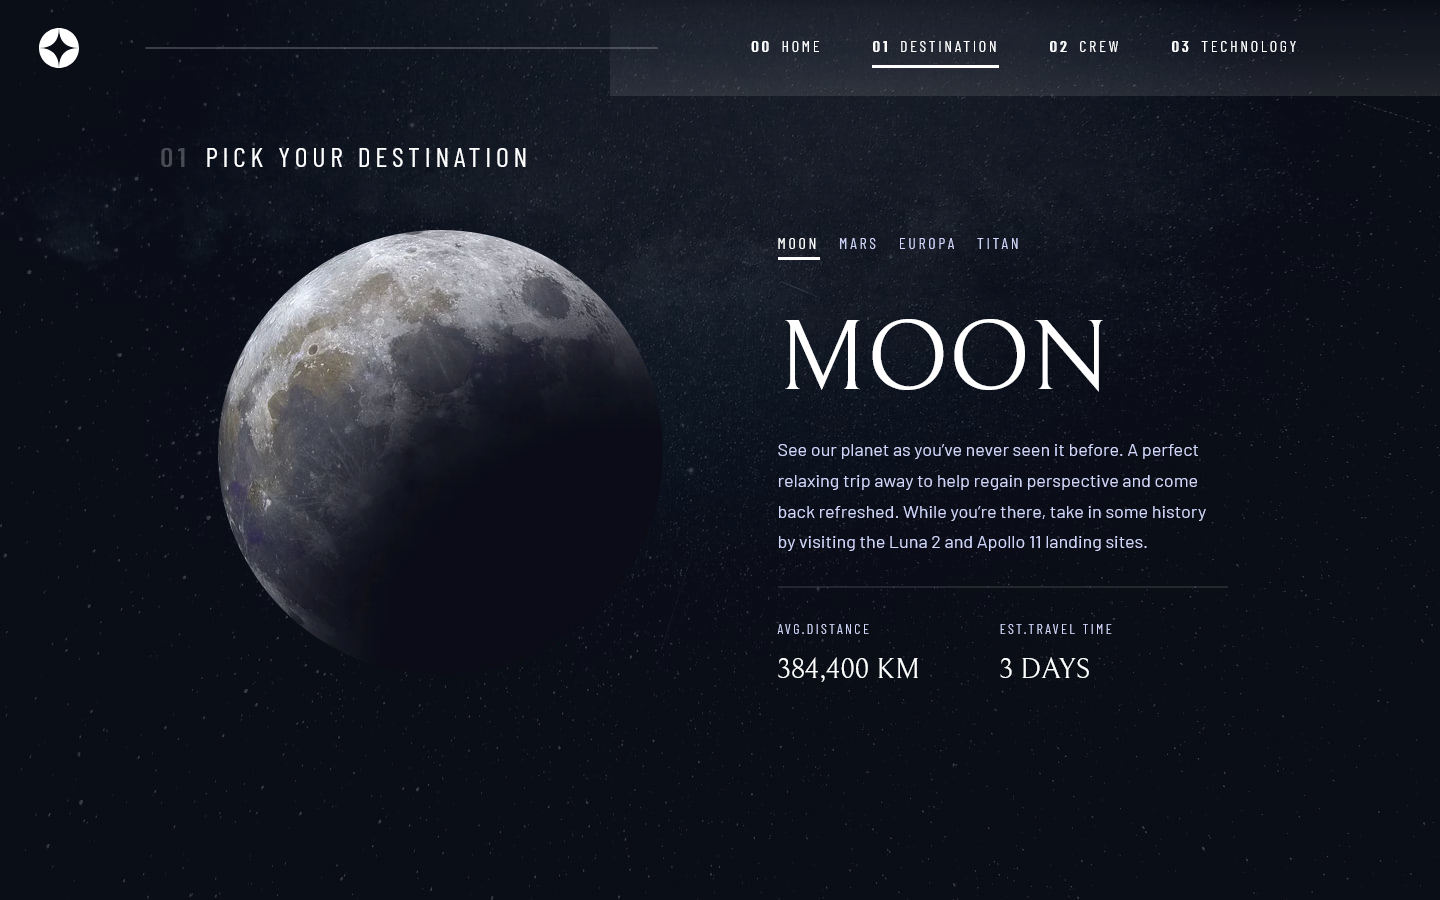
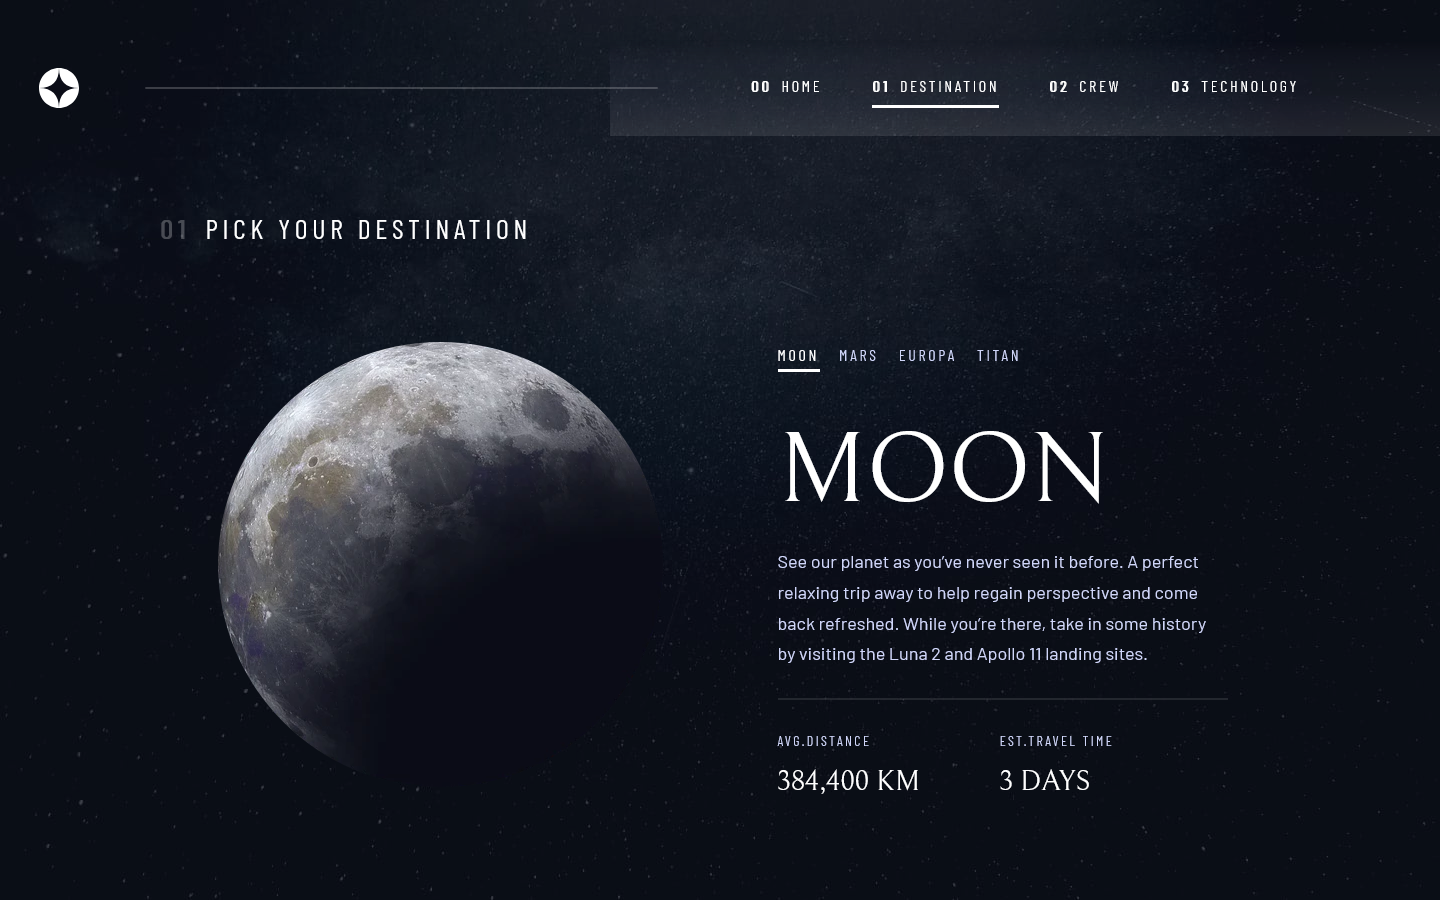
code refactor

diff --git a/src/pages/home.tsx b/src/pages/home.tsx
@@ -8,10 +8,10 @@ export const Home = () => {
       <div className="fixed inset-0 -z-10 bg-no-repeat bg-[url(/public/assets/home/background-home-mobile.jpg)] md:bg-[url(/public/assets/home/background-home-tablet.jpg)] ws:bg-[url(/public/assets/home/background-home-desktop.jpg)]" />
 
       <section className="pt-40 flex flex-col items-center gap-[3.2rem] md:pt-80 ws:pt-[37.7rem] ws:flex-row ws:justify-center ws:gap-[38rem]">
-        <div className="w-[32.7rem] md:w-[45rem] space-y-[1.6rem]">
-          <h5 className="h5 text-light_blue text-center">so, you want to travel to</h5>
-          <h1 className="h1 text-center">space</h1>
-          <p className="body-text text-center md:px-4 ws:text-left">
+        <div className="w-[32.7rem] text-center md:w-[45rem] space-y-[1.6rem] ws:text-left">
+          <h5 className="h5 text-light_blue">so, you want to travel to</h5>
+          <h1 className="h1">space</h1>
+          <p className="body-text md:px-4">
             Let's face it; if you want to go to space, you might as well genuinely go to
             outer space and not hover kind of on the edge of it. Well sit back, and relax
             because we'll give you a truly out of this world experience!
@@ -20,7 +20,7 @@ export const Home = () => {
 
         <button
           onClick={() => navigate('/destination')}
-          className="relative explore-btn mt-24 md:mt-44">
+          className="relative explore-btn mt-24 md:mt-44 ws:mt-48">
           <span className="text-3xl md:text-5xl">explore</span>
         </button>
       </section>

diff --git a/src/components/section.tsx b/src/components/section.tsx
@@ -7,7 +7,7 @@ export const Section: FC<
 
   return (
     <section
-      className={`${className} h-screen grid justify-items-center grid-rows-[minmax(50px,100px)_auto_1fr] ws:grid-rows-[minmax(20px,50px)_auto] gap-y-16 pt-40 pb-20 mx-auto md:pt-56 ws:w-[112rem] ws:grid-cols-2 ws:pb-0`}>
+      className={`${className} h-screen grid justify-items-center grid-rows-[minmax(50px,100px)_auto_1fr] ws:grid-rows-[minmax(20px,50px)_auto] gap-y-16 pt-40 pb-20 mx-auto md:pt-[21.2rem] ws:gap-y-32 ws:w-[112rem] ws:grid-cols-2 ws:pb-0`}>
       <h5 className="h5 space-x-6 row-start-1 col-span-full md:max-ws:pl-16 md:place-self-start">
         <span className="font-bold opacity-25">{titleNum}</span>
         <span>{title}</span>

diff --git a/src/pages/crew.tsx b/src/pages/crew.tsx
@@ -41,7 +41,7 @@ export const Crew = () => {
           </figure>
         ))}
 
-        <Article className="row-start-3 col-start-1 md:flex-col-reverse md:row-start-2 md:max-w-[57rem] ws:h-full ws:justify-evenly ws:items-start ws:text-left">
+        <Article className="row-start-3 col-start-1 md:flex-col-reverse md:row-start-2 md:max-w-[57rem] ws:h-full ws:justify-around ws:items-start ws:text-left">
           <div className="flex items-center justify-center gap-6">
             {data.crew.map((crew, idx) => (
               <button

diff --git a/src/components/header.tsx b/src/components/header.tsx
@@ -12,7 +12,7 @@ export const Header: FC<PropsWithChildren<NavigationProps>> = ({
   setToggleMenu,
 }) => {
   return (
-    <header className="absolute z-50 pt-[2.4rem] px-[2.4rem] w-full flex items-center justify-between md:p-0 md:pl-[3.9rem]">
+    <header className="absolute z-50 pt-[2.4rem] px-[2.4rem] w-full flex items-center justify-between md:p-0 md:pl-[3.9rem] ws:pt-16">
       <Link to={{ pathname: '/' }}>
         <img
           className="w-[4rem] h-[4rem]"

diff --git a/src/pages/technology.tsx b/src/pages/technology.tsx
@@ -29,7 +29,7 @@ export const Technology = () => {
 
       <Section
         header={['03', 'space launch 101']}
-        className="md:gap-[6rem] ws:w-[128rem] ws:ml-auto ws:mx-0 ws:justify-items-stretch">
+        className="ws:gap-y-4 ws:w-[128rem] ws:ml-auto ws:mx-0 ws:justify-items-stretch">
         {[data.technology[techNumber]].map(tech => (
           <figure
             key={tech.name}
